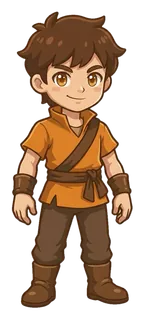
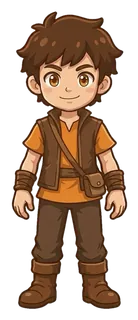
成长原画：小勇士 3/4（重画）+ 位置

diff --git a/src/ui.js b/src/ui.js
@@ -563,7 +563,7 @@ const GROW_POSE = {
   robot_2:{fr:.15, fl:.85, fy:.56, hx:.5, hy:.12, hw:.50}, robot_3:{fr:.13, fl:.87, fy:.55, hx:.5, hy:.1, hw:.36}, robot_4:{fr:.11, fl:.89, fy:.55, hx:.5, hy:.1, hw:.36},
   astronaut_2:{fr:.12, fl:.88, fy:.55, hx:.5, hy:.08, hw:.48}, astronaut_3:{fr:.12, fl:.88, fy:.55, hx:.5, hy:.08, hw:.46}, astronaut_4:{fr:.12, fl:.88, fy:.53, hx:.5, hy:.08, hw:.43},
   ninja_2:{fr:.15, fl:.85, fy:.7, hx:.5, hy:.13, hw:.55}, ninja_3:{fr:.15, fl:.87, fy:.62, hx:.52, hy:.1, hw:.45}, base_2:{fr:.15, fl:.85, fy:.55, hx:.5, hy:.09, hw:.48},
-  ninja_4:{fr:.2, fl:.8, fy:.5, hx:.5, hy:.09, hw:.38}, base_3:{fr:.16, fl:.84, fy:.54, hx:.5, hy:.09, hw:.46},
+  ninja_4:{fr:.2, fl:.8, fy:.5, hx:.5, hy:.09, hw:.38}, base_3:{fr:.16, fl:.84, fy:.54, hx:.5, hy:.09, hw:.46}, base_4:{fr:.2, fl:.8, fy:.55, hx:.5, hy:.09, hw:.46},
   king_2:{fr:.2, fl:.8, fy:.6, hx:.5, hy:.11, hw:.48}, king_3:{fr:.25, fl:.75, fy:.55, hx:.5, hy:.1, hw:.36}, king_4:{fr:.25, fl:.75, fy:.53, hx:.5, hy:.1, hw:.34}
 };
 const growKey = (i, st) => st>=2 ? (HEROES[i] && HEROES[i].mystic ? "base" : GROW_NAME[i]||"base")+"_"+st : "";
